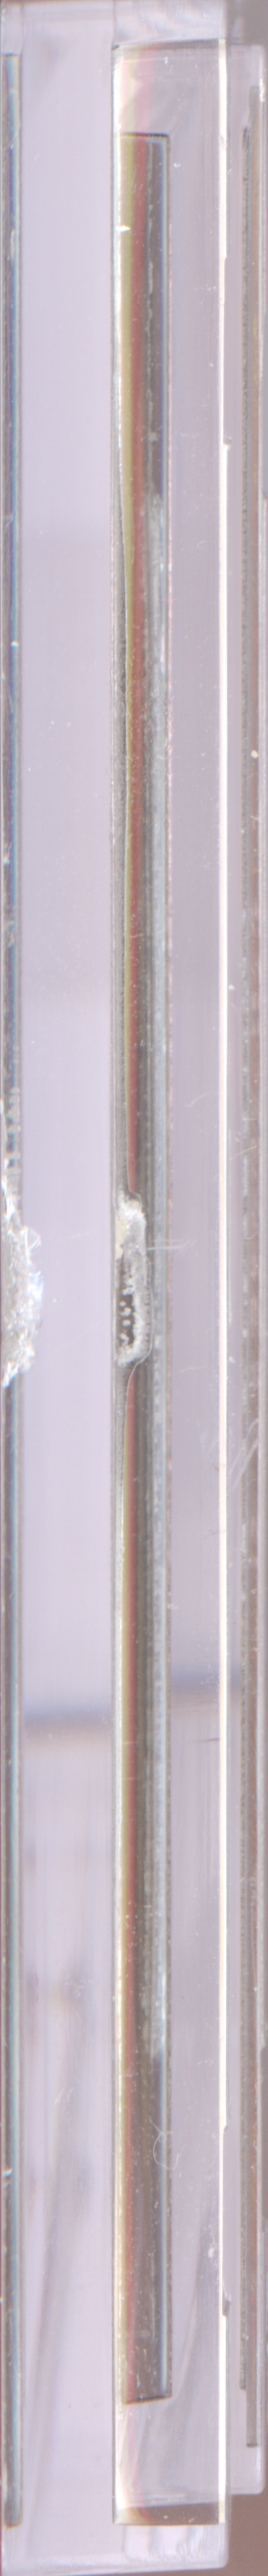
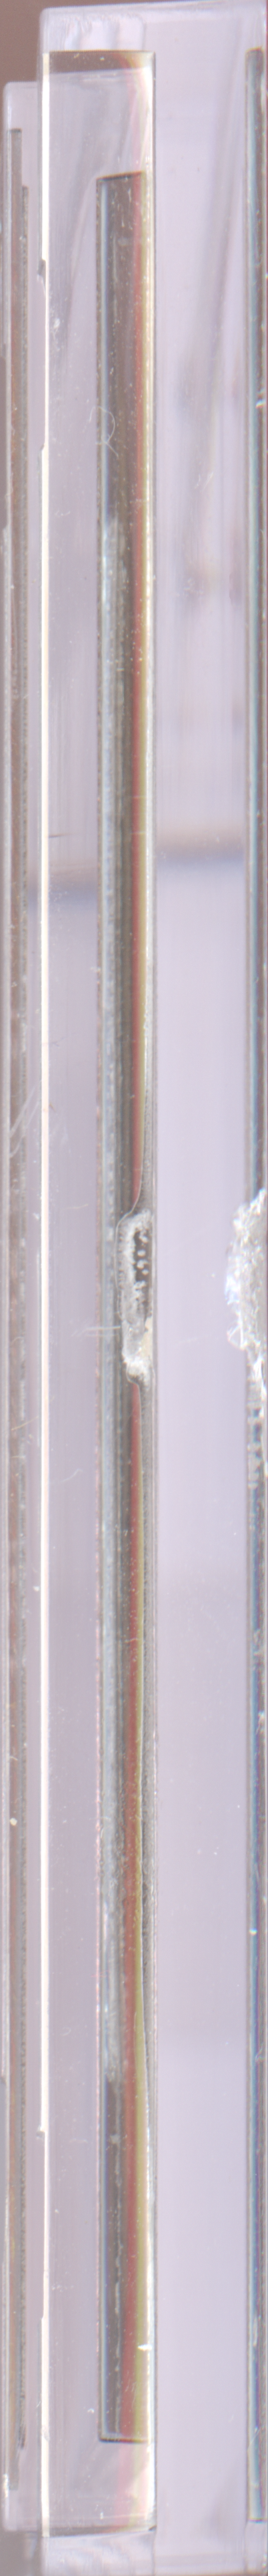
Fixing texture encoding bug that was causing images to be washed out. Also fixing a couple of texture orientation issues.

diff --git a/src/components/Root.tsx b/src/components/Root.tsx
@@ -1,7 +1,7 @@
 import { OrbitControls } from '@react-three/drei'
 import { Canvas, useLoader } from '@react-three/fiber'
 import { useRef, useState } from 'react'
-import { Mesh } from 'three'
+import { Mesh, sRGBEncoding } from 'three'
 import { TextureLoader } from 'three/src/loaders/TextureLoader.js'
 
 function Box(props: any) {
@@ -25,6 +25,13 @@ function Box(props: any) {
     const texRight = useLoader(TextureLoader, 'assets/1955-aaron-bowman-bgs-55/right.png')
     const texTop = useLoader(TextureLoader, 'assets/1955-aaron-bowman-bgs-55/top.png')
     const texBottom = useLoader(TextureLoader, 'assets/1955-aaron-bowman-bgs-55/bottom.png')
+
+    texFront.encoding = sRGBEncoding
+    texBack.encoding = sRGBEncoding
+    texTop.encoding = sRGBEncoding
+    texBottom.encoding = sRGBEncoding
+    texLeft.encoding = sRGBEncoding
+    texRight.encoding = sRGBEncoding
 
     const roughDimensions = [6100, 3800, 400]
 